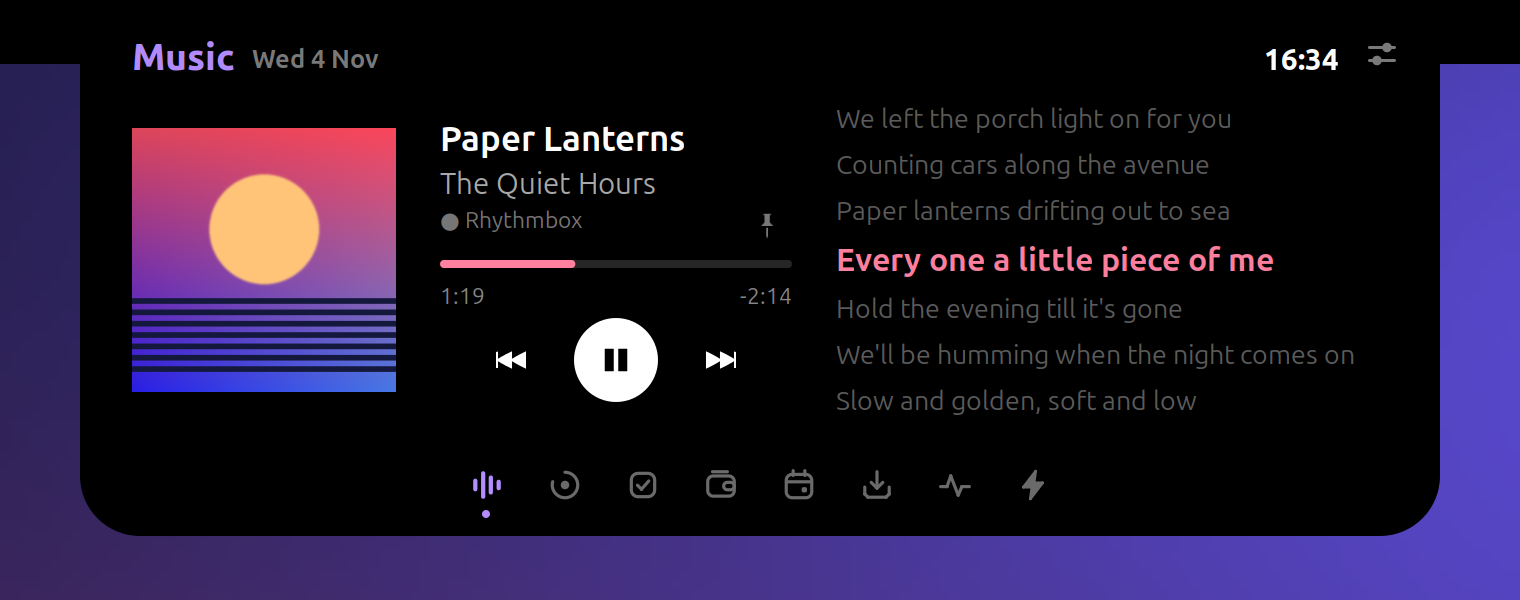
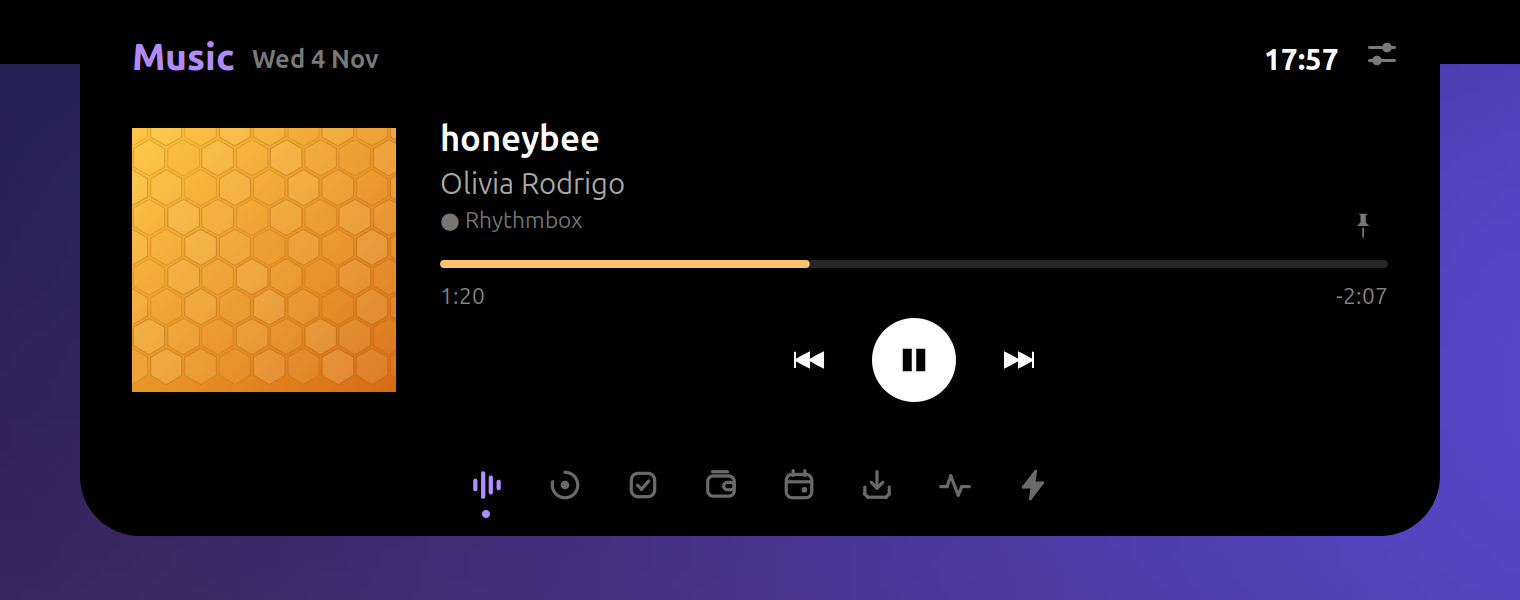
README: a screenshot per tab (Music, Focus, Tasks, Money, Today, Shelf, System, Power)

diff --git a/README.md b/README.md
@@ -2,11 +2,9 @@
 
 A Dynamic Island for GNOME.
 
-![The open island on the Music tab: album art, playback controls, synced lyrics and the tab dock](docs/music.png)
-
 Revelio puts a small black notch at the top of your screen. Closed, it shows the time, or what's
-playing. Hover over it and it opens into a row of tabs for music, focus, tasks, money, calendar and
-system stats. Volume, battery, headphones and notifications pop up from it.
+playing. Hover over it and it opens into tabs for music, focus, tasks, money, calendar and system stats,
+switched from a dock along the bottom. Volume, battery, headphones and notifications pop up from it.
 
 It runs inside GNOME Shell as an extension, so there's no extra app in the background. It reacts to
 events instead of polling, and it pauses while the screen is locked or off.
@@ -15,29 +13,70 @@ Requires **GNOME 50** (Ubuntu 26.04 LTS, Fedora 44 and other GNOME 50 distributi
 
 ## Features
 
-**Music**
+### Music
+
+![Music tab: cover art, track, seek bar and playback controls](docs/music.png)
+
 - Controls for any MPRIS player (Spotify, Firefox, Rhythmbox, mpv…), with a seek bar and album art
 - Synced lyrics from [LRCLIB](https://lrclib.net), with the current line highlighted beside the player
 - On the closed island: the track title, small playback controls and animated bars
 
-**Tabs**
-- **Focus**: a Pomodoro timer whose countdown stays on the closed island
-- **Tasks**: a to-do list where `#tag` sets a category and `@tomorrow 9:00` sets a deadline. Overdue tasks raise an alert, and the list also opens in its own window
-- **Money**: a monthly budget split into cash and e-wallet. Set money aside for bills or savings goals, see what's left for today, and export a report to `~/Documents/Revelio/Money.xlsx`
-- **Today**: a calendar with your events from GNOME Calendar and Evolution
-- **Shelf**: drop files on the island to keep them close
-- **System**: CPU, memory, drives, network, battery, GPU, top apps, and a power page showing how much each part draws
+### Focus
 
-**Pop-ups**
+![Focus tab: a running Pomodoro countdown with its progress ring](docs/focus.png)
+
+A Pomodoro timer with focus, short and long breaks. The countdown stays on the closed island.
+
+### Tasks
+
+![Tasks tab: tasks with categories and deadlines, and filter chips](docs/tasks.png)
+
+A to-do list where `#tag` sets a category and `@tomorrow 9:00` sets a deadline. Overdue tasks raise
+an alert, and the list also opens in its own window.
+
+### Money
+
+![Money tab: rings for the month, cash and e-wallet, and what's left for today](docs/money.png)
+
+A monthly budget split into cash and e-wallet. Set money aside for bills or savings goals, see what's
+left for today, and export a report to `~/Documents/Revelio/Money.xlsx`.
+
+### Today
+
+![Today tab: the date, the month's calendar and upcoming events](docs/today.png)
+
+The month at a glance, with your events from GNOME Calendar and Evolution.
+
+### Shelf
+
+![Shelf tab: files dropped on the island](docs/shelf.png)
+
+Drop files on the island to keep them close.
+
+### System and Power
+
+![System tab: CPU, GPU, memory, drives, network, battery, history and top apps](docs/system.png)
+
+![Power tab: total power draw split into parts](docs/power.png)
+
+CPU, memory, drives, network, battery, GPU, a one-minute history and the busiest apps, plus a power
+page showing how much each part draws.
+
+### Pop-ups
+
 - Volume, charging and battery level, and Bluetooth headphones with their battery level
 
-**Add-ons** (off by default, switch on in settings)
+### Add-ons
+
+Off by default; switch them on in settings.
+
 - Notifications from other apps, with a history tab and privacy switches
 - Clipboard history
 - A teleprompter for reading scripts
 - A shortcut to GNOME's screen recorder
 
-**Settings**
+### Settings
+
 - Hover or click to open, open and close delays, width
 - Clock, minimal, hidden-until-hover or status-bar look when closed
 - Which monitor it appears on, and whether it hides over full-screen apps
@@ -58,7 +97,7 @@ Requires **GNOME 50** (Ubuntu 26.04 LTS, Fedora 44 and other GNOME 50 distributi
    gnome-extensions enable revelio@midra
    ```
 
-Settings open with `gnome-extensions prefs revelio@midra`, or from the gear on the open island.
+Settings open with `gnome-extensions prefs revelio@midra`, or from the settings button on the open island.
 
 ### From source
 
